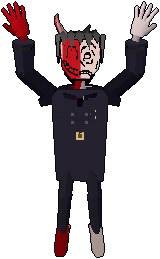
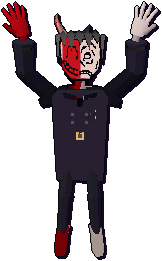
Seven story loading screens and cleaner fighter art on the loading screens
- STORY screens: a whole story told in one pixel picture, framed with its title and tale
  beneath - THEIR NAMES, WHAT THE WATER KEEPS, THE LAST OATH, SOUNDCHECK 6 AM,
  THE STAR-EATER, CLOSING TIME, SECOND LIFE (tools/sprites/loading_stories.py).
- Fighter screens: clean poses instead of smeared attack frames, the outline and comic
  shadow baked on the sprite's own pixels, and every hero sized in whole steps of the
  backdrop's pixels so nothing comes out lumpy.
- Download budget: images 102.3 -> 102.7 MB, total 180.0 -> 180.4 for the story pictures.

Claude-Session: https://claude.ai/code/session_01K2bHiqG1reMF1nXkDzraJv

diff --git a/public/loading-screens.js b/public/loading-screens.js
@@ -4,14 +4,22 @@
 (() => {
   // a: the main accent, b: the hero's offset shadow; hx / hh / hb = the hero's centre x, height and floor (% of the screen); fx = its particles
   const screens = [
-    { id: 'roster', name: 'OPERATION REBIRTH', place: 'EVERY FIGHT IS A SECOND CHANCE', lore: 'Lacy, Soul Summoner and Mr Wake. Three who came back wrong - and came back fighting.', a: '#ffb24a', b: '#7a2aa8', fx: 'embers', hx: 64, hh: 62, hb: 9 },
-    { id: 'soul-summoner', name: 'SOUL SUMMONER', place: 'THE SKY SANCTUM', lore: 'He calls his fallen friends by name, and they answer in blue fire.', a: '#ffd86a', b: '#1a6a9a', fx: 'souls', hx: 68, hh: 62, hb: 7 },
-    { id: 'mr-wake', name: 'MR WAKE', place: 'GRAVEMOON BRIDGE', lore: 'Beneath the bridge the dark water has eyes. He taught them to blink.', a: '#c89aff', b: '#3a1060', fx: 'wisps', hx: 64, hh: 58, hb: 9 },
-    { id: 'hero-knight', name: 'LACY', place: 'THE LAST OATH', lore: 'The kingdom fell. The oath did not.', a: '#ff9a4a', b: '#5a0a1a', fx: 'embers', hx: 66, hh: 78, hb: 6 },
-    { id: 'nu', name: 'NU', place: 'THE MAIN STAGE', lore: 'Every fight becomes a show. Every show ends in an encore.', a: '#ff5ae0', b: '#1ad8ff', fx: 'confetti', hx: 66, hh: 78, hb: 6 },
-    { id: 'aero', name: 'AERO', place: 'AERO MEADOW', lore: 'A living world inside a forgotten desktop - and one goldfish who refuses to be closed.', a: '#5ae0ff', b: '#1a6ad0', fx: 'bubbles', hx: 66, hh: 74, hb: 7 },
-    { id: 'gnash', name: 'GNASH', place: 'AFTER HOURS', lore: 'He drags the axe so you hear him coming. It never helps.', a: '#c8ff3a', b: '#ff2a9a', fx: 'rain', hx: 66, hh: 84, hb: 5 },
-    { id: 'hanz', name: 'HANZ & $@L', place: 'THE TRUE SHOPKEEPER', lore: 'Two halves of one man behind one counter. The shop is open. Nobody remembers coming in.', a: '#ff4a6a', b: '#d2d0cc', fx: 'glitch', hx: 66, hh: 80, hb: 4 },
+    { id: 'roster', name: 'OPERATION REBIRTH', place: 'EVERY FIGHT IS A SECOND CHANCE', lore: 'Lacy, Soul Summoner and Mr Wake. Three who came back wrong - and came back fighting.', a: '#ffb24a', b: '#7a2aa8', fx: 'embers', hx: 64, px: 1.5, hb: 9 },
+    { id: 'soul-summoner', name: 'SOUL SUMMONER', place: 'THE SKY SANCTUM', lore: 'He calls his fallen friends by name, and they answer in blue fire.', a: '#ffd86a', b: '#1a6a9a', fx: 'souls', hx: 68, px: 1.5, hb: 7 },
+    { id: 'mr-wake', name: 'MR WAKE', place: 'GRAVEMOON BRIDGE', lore: 'Beneath the bridge the dark water has eyes. He taught them to blink.', a: '#c89aff', b: '#3a1060', fx: 'wisps', hx: 64, px: 1.5, hb: 9 },
+    { id: 'hero-knight', name: 'LACY', place: 'THE LAST OATH', lore: 'The kingdom fell. The oath did not.', a: '#ff9a4a', b: '#5a0a1a', fx: 'embers', hx: 66, px: 1.5, hb: 6 },
+    { id: 'nu', name: 'NU', place: 'THE MAIN STAGE', lore: 'Every fight becomes a show. Every show ends in an encore.', a: '#ff5ae0', b: '#1ad8ff', fx: 'confetti', hx: 66, px: 2, hb: 6 },
+    { id: 'aero', name: 'AERO', place: 'AERO MEADOW', lore: 'A living world inside a forgotten desktop - and one goldfish who refuses to be closed.', a: '#5ae0ff', b: '#1a6ad0', fx: 'bubbles', hx: 66, px: 2, hb: 7 },
+    { id: 'gnash', name: 'GNASH', place: 'AFTER HOURS', lore: 'He drags the axe so you hear him coming. It never helps.', a: '#c8ff3a', b: '#ff2a9a', fx: 'rain', hx: 66, px: 1, hb: 5 },
+    { id: 'hanz', name: 'HANZ & $@L', place: 'THE TRUE SHOPKEEPER', lore: 'Two halves of one man behind one counter. The shop is open. Nobody remembers coming in.', a: '#ff4a6a', b: '#d2d0cc', fx: 'glitch', hx: 66, px: 0.5, hb: 4 },
+    // STORIES: a whole story in one picture (tools/sprites/loading_stories.py) - no hero layer, the title and the tale underneath
+    { id: 'story-names', story: true, name: 'THEIR NAMES', place: 'A SOUL SUMMONER STORY', lore: 'Every night he walks the Sanctum graves and says their names out loud. Every night, one of them answers.', a: '#8ae8ff', b: '#1a3a6a', fx: 'souls' },
+    { id: 'story-bridge', story: true, name: 'WHAT THE WATER KEEPS', place: 'A GRAVEMOON STORY', lore: 'Mr Wake has fished off Gravemoon Bridge for a hundred years and never caught a thing. Tonight, something down there is fishing back. AERO saw it first.', a: '#ffd23a', b: '#3a1060', fx: 'wisps' },
+    { id: 'story-oath', story: true, name: 'THE LAST OATH', place: 'A LACY STORY', lore: 'Her kingdom burned in a single night. Its last knight swore to win it back one fight at a time. She has a very long list.', a: '#ff9a4a', b: '#5a0a1a', fx: 'embers' },
+    { id: 'story-soundcheck', story: true, name: 'SOUNDCHECK, 6 AM', place: 'AN UNDERGROUND STORY', lore: 'The frontman is warmed up and ready to go. The roadies are... not. One is asleep on the amp. One has lost a fight with the cables.', a: '#ff5ae0', b: '#1ad8ff', fx: 'confetti' },
+    { id: 'story-eater', story: true, name: 'THE STAR-EATER', place: 'THE LAST OBSERVATORY', lore: 'The night sky is going dark, one star at a time. At the edge of the world something enormous is hungry, and three small fighters have decided to stop it.', a: '#ffc84a', b: '#3a1a6a', fx: 'embers' },
+    { id: 'story-closing', story: true, name: 'CLOSING TIME', place: 'A LOST STORY', lore: 'The little shop is open all night. Nobody remembers going in. Everybody remembers the shopkeeper - and he never forgets a customer.', a: '#ff4a8a', b: '#b8121c', fx: 'glitch' },
+    { id: 'story-dawn', story: true, name: 'SECOND LIFE', place: 'OPERATION REBIRTH', lore: 'Six who should have stayed down. One more sunrise. One more round.', a: '#ffd08a', b: '#6a1a5a', fx: 'embers' },
   ];
   const tips = [
     'Your LIMIT gauge fills as you take damage. When it\'s full, press O to unleash your Limit.',
@@ -39,9 +47,16 @@
   const $ = (q) => root.querySelector(q);
   root.dataset.screen = S.id; root.setAttribute('aria-label', 'Loading Operation REBIRTH - ' + S.name);
   root.style.setProperty('--a', S.a); root.style.setProperty('--b', S.b);
-  root.style.setProperty('--hx', S.hx + '%'); root.style.setProperty('--hh', S.hh + '%'); root.style.setProperty('--hb', S.hb + '%');
+  root.style.setProperty('--hx', (S.hx || 64) + '%'); root.style.setProperty('--hb', (S.hb || 5) + '%');
   $('.ls-bg').src = 'assets/ui/loading/' + S.id + '_bg.png';
-  const hero = $('.ls-hero'); hero.src = 'assets/ui/loading/' + S.id + '_hero.png'; hero.alt = S.name;
+  const hero = $('.ls-hero');
+  if (S.story) { root.classList.add('ls-story'); $('.ls-kicker').textContent = 'STORY'; $('.ls-bg').alt = S.name + '. ' + S.lore; }
+  else {
+    // the hero is sized in whole steps of the backdrop's own pixels (px = sprite pixels per backdrop pixel), so both
+    // scale up together and the sprite never comes out lumpy or uneven
+    hero.onload = () => root.style.setProperty('--hh', (hero.naturalHeight * (S.px || 1) / 180 * 100) + '%');
+    hero.src = 'assets/ui/loading/' + S.id + '_hero.png'; hero.alt = S.name;
+  }
   $('.ls-name').textContent = S.name; $('.ls-place').textContent = S.place; $('.ls-lore').textContent = S.lore;
 
   // the tips turn every few seconds

diff --git a/index.html b/index.html
@@ -36,7 +36,20 @@
     .ls-bg { inset: 0; width: 100%; height: 100%; object-fit: cover; transform-origin: 62% 55%; animation: ls-push 16s cubic-bezier(.2,.6,.3,1) forwards; }
     .ls-rays { position: absolute; left: var(--hx, 64%); top: 52%; width: 160%; aspect-ratio: 1; transform: translate(-50%, -50%); background: repeating-conic-gradient(from 0deg, var(--a) 0deg 7deg, transparent 7deg 22deg); opacity: .22; mix-blend-mode: screen; -webkit-mask: radial-gradient(circle, #000 0%, transparent 46%); mask: radial-gradient(circle, #000 0%, transparent 46%); animation: ls-spin 60s linear infinite; }
     .ls-hero-wrap { position: absolute; left: var(--hx, 64%); bottom: var(--hb, 5%); height: var(--hh, 76%); transform: translateX(-50%); animation: ls-in .9s cubic-bezier(.2,1.4,.4,1) both .15s; }
-    .ls-hero { position: relative !important; height: 100%; width: auto; animation: ls-float 3.6s ease-in-out infinite alternate 1s; filter: drop-shadow(.55vmin .55vmin 0 var(--b)) drop-shadow(0 0 2.4vmin var(--a)); }
+    .ls-hero { position: relative !important; height: 100%; width: auto; animation: ls-float 3.6s ease-in-out infinite alternate 1s; filter: drop-shadow(0 0 2.4vmin var(--a)); }
+    /* a STORY screen: the picture is the whole thing - no hero, no rays; the camera drifts slowly across it */
+    #loading.ls-story .ls-hero-wrap, #loading.ls-story .ls-rays { display: none; }
+    #loading.ls-story .ls-stage { top: 3vh; transform: translateX(-50%); width: min(96vw, 112vh); height: auto; aspect-ratio: 16 / 9; overflow: hidden; outline: 2px solid var(--a); outline-offset: 3px; box-shadow: 0 0 0 7px rgba(0,0,0,.6), 0 0 6vh -1vh var(--a); }
+    #loading.ls-story .ls-bg { animation: ls-drift 24s ease-in-out infinite alternate; transform-origin: 50% 50%; }
+    #loading.ls-story .ls-shade { background: radial-gradient(ellipse at 50% 50%, transparent 60%, rgba(0,0,0,.35) 100%); }
+    #loading.ls-story .ls-tip { display: none; }
+    #loading.ls-story .ls-title { bottom: 10vh; max-width: 74vw; display: grid; grid-template-columns: auto 1fr; column-gap: 2.2em; align-items: end; animation-name: ls-title; }
+    #loading.ls-story .ls-kicker { grid-column: 1; justify-self: start; }
+    #loading.ls-story .ls-name { grid-column: 1; margin: .25em 0 .15em; font-size: clamp(12px, min(2.6vw, 4.4vh), 40px); white-space: nowrap; }
+    #loading.ls-story .ls-place { grid-column: 1; }
+    #loading.ls-story .ls-lore { grid-column: 2; grid-row: 1 / span 3; margin: 0; font-size: clamp(6px, min(1vw, 1.9vh), 14px); max-width: 46em; color: #f0ecf8; border-left: 3px solid var(--a); padding-left: 1.2em; }
+    @media (max-aspect-ratio: 16/10) { #loading.ls-story .ls-title { display: block; } #loading.ls-story .ls-lore { display: block; border: 0; padding: 0; margin-top: .8em; } }
+    @keyframes ls-drift { from { transform: scale(1.0) translate(0, 0); } to { transform: scale(1.05) translate(-1%, -.6%); } }
     .ls-fx { position: absolute; inset: 0; width: 100%; height: 100%; image-rendering: pixelated; }
     .ls-shade { position: absolute; inset: 0; background: linear-gradient(90deg, rgba(6,4,14,.82) 0%, rgba(6,4,14,.35) 34%, transparent 55%), linear-gradient(0deg, rgba(6,4,14,.85) 0%, transparent 26%), radial-gradient(ellipse at 60% 45%, transparent 55%, rgba(0,0,0,.45) 100%); }
     .ls-hud { position: absolute; inset: 0; }

diff --git a/tools/sprites/loading_stories.py b/tools/sprites/loading_stories.py
@@ -1,0 +1,218 @@
+"""LOADING STORIES: loading screens that are whole stories in one picture (a picture is worth a thousand words).
+Each is a 320x180 pixel-art scene painted with hall_paintings.py's kit (dithered skies, glows, ridges, rays, rim-lit
+sprites from the fighters' real sheets) - every sprite at a whole-number scale on the same pixel grid as the scene, so
+nothing shimmers or looks broken when the page blows it up. The page (public/loading-screens.js, `story` screens)
+shows the picture full screen with a slow camera drift and its title and story underneath.
+
+Writes public/assets/ui/loading/story-<id>_bg.png. Run after loading_screens.py (it clears the folder):
+  python3 tools/sprites/loading_stories.py [--preview FILE]
+"""
+import os, sys, math
+import numpy as np
+from PIL import Image
+sys.path.insert(0, os.path.dirname(__file__))
+import hall_paintings as P
+
+P.W, P.H = 320, 180                                   # (the kit reads these when it paints)
+W, H = P.W, P.H
+OUT = os.path.join(P.ROOT, 'public/assets/ui/loading')
+hx = P.hexc
+
+
+def grave(d, x, y, kind):
+    """A gravestone with its feet at (x, y): a rounded slab, a cross, or a broken pillar."""
+    c, e = hx(0x2a3448), hx(0x46566e)
+    if kind == 0: d.rectangle((x - 7, y - 16, x + 7, y), fill=c); d.ellipse((x - 7, y - 22, x + 7, y - 10), fill=c); d.line((x - 6, y - 17, x - 6, y), fill=e)
+    elif kind == 1: d.rectangle((x - 2, y - 22, x + 2, y), fill=c); d.rectangle((x - 8, y - 17, x + 8, y - 13), fill=c); d.line((x - 2, y - 22, x - 2, y), fill=e)
+    else: d.rectangle((x - 5, y - 14, x + 5, y), fill=c); d.polygon([(x - 5, y - 14), (x - 1, y - 19), (x + 2, y - 15), (x + 5, y - 18), (x + 5, y - 14)], fill=c)
+    d.rectangle((x - 10, y, x + 10, y + 2), fill=hx(0x1a2030))
+
+
+def wisp(cv, x, y, h, col=0x6ad8ff):
+    """A soul flame rising out of the ground: a glow, a flickering blue tongue, a white heart."""
+    P.glow(cv, x, y - h * 0.6, h * 0.8, col, 70); d = P.draw(cv)
+    for i in range(int(h)):
+        w = max(1, int((1 - i / h) * 4 * (1 + 0.4 * math.sin(i * 0.9))))
+        d.line((x - w + int(math.sin(i * 0.5) * 2), y - i, x + w + int(math.sin(i * 0.5) * 2), y - i), fill=hx(col) + (230,))
+    d.ellipse((x - 1, y - h * 0.45, x + 1, y - h * 0.3), fill=(255, 255, 255, 255))
+
+
+def s_names():
+    """THEIR NAMES: Soul Summoner among the graves of his friends at night; blue soul fire rising from each grave, and
+    over one of them the ghost of a knight has stood up to answer him."""
+    img = P.sky(0x050818, 0x0e1a3a, 0x1e3a5a, 0x3a5a7a)
+    img = P.stars(img, 120, 4, (0xffffff, 0xa8d8ff), 0.55)
+    img = P.radial(250, 40, 26, [0xf4f8ff, 0xc8d8f0], img); img = P.radial(250, 40, 60, [0x6a8ab0, 0x2a4060], img, 1, 0.5)
+    img = P.ridge(img, 120, 10, 0x0e1830, 8, step=3)
+    img = P.ridge(img, 146, 6, 0x0a1222, 9, step=2)
+    cv = P.to_im(img); d = P.draw(cv)
+    for x, k in ((60, 0), (100, 1), (140, 2), (238, 1), (276, 0)): grave(d, x, 150, k)
+    for x in (60, 100, 140, 238, 276): wisp(cv, x, 132, 14 + (x % 7))
+    P.put(cv, P.silhouette(P.strip('hero-knight/idle_sheet.png', 2, 150, 90), (120, 200, 255)), 100, 132, alpha=0.45)   # the one who answers
+    P.glow(cv, 100, 108, 30, 0x8ae8ff, 60)
+    P.put(cv, P.strip('soul-summoner/idle_sheet.png', 4), 190, 158, flip=True, scale=2, light=hx(0x8ae8ff), side=-1)
+    d = P.draw(cv); d.rectangle((0, 158, W, H), fill=hx(0x070c18))
+    for i in range(30): x, y = P.rng.integers(0, W), P.rng.integers(60, 150); P.sparkle(cv, int(x), int(y), 0x8ae8ff, 1)
+    return P.grade(cv, 0x3a6ab0, 0.08)
+
+
+def s_bridge():
+    """WHAT THE WATER KEEPS: Mr Wake fishing off Gravemoon Bridge with his staff; under the black water two huge eyes
+    have opened and a long hand is reaching for his line. AERO, at the far end, has seen it."""
+    img = P.sky(0x07040f, 0x1e0f3d, 0x4a1f6a, 0x6a2a7a)
+    img = P.stars(img, 90, 2, (0xffffff, 0xd8c8ff), 0.45)
+    img = P.radial(80, 40, 22, [0xf4ecff, 0xd8c8f4], img)
+    cv = P.to_im(img); d = P.draw(cv)
+    d.rectangle((0, 136, W, H), fill=hx(0x0a0612))                                          # the black water
+    for i in range(10): y = 140 + i * 4; d.line((60 + i * 2, y, 100 - i * 2, y), fill=hx(0x6a5a8a))   # the moon in it
+    for ex in (150, 206):                                                                   # the eyes under the water
+        P.glow(cv, ex, 160, 24, 0xffd23a, 60); d = P.draw(cv)
+        d.ellipse((ex - 16, 154, ex + 16, 166), fill=hx(0xffe07a)); d.ellipse((ex - 4, 154, ex + 4, 166), fill=hx(0x0a0612))
+    d.line((236, 180, 240, 156, 250, 142), fill=hx(0x2a1a3a), width=4)                      # a long hand reaching up for his line
+    for k in range(4): d.line((250, 142, 244 + k * 4, 134), fill=hx(0x2a1a3a), width=2)
+    d.rectangle((0, 120, W, 126), fill=hx(0x160c28)); d.rectangle((0, 118, W, 119), fill=hx(0x2c1a48))   # the bridge
+    for x in range(0, W, 12): d.rectangle((x, 108, x + 2, 118), fill=hx(0x1c1030))
+    d.rectangle((0, 107, W, 109), fill=hx(0x1c1030))
+    for x in (30, 140, 270): d.rectangle((x, 126, x + 12, 136), fill=hx(0x120a22))
+    P.put(cv, P.strip('mr-wake/idle_sheet.png', 6), 190, 120, scale=2, light=hx(0xd8b8ff), side=-1)
+    d = P.draw(cv); d.line((222, 32, 246, 18), fill=hx(0x6a4a3a), width=2); d.line((246, 18, 252, 146), fill=hx(0xd8d0ff))   # his line into the water
+    P.put(cv, P.strip('aero/idle_sheet.png', 12), 40, 118, light=hx(0xd8b8ff), side=-1)
+    d = P.draw(cv); d.text((38, 78), '!', fill=hx(0xffffff))
+    P.glow(cv, 54, 106, 8, 0xffd27a, 120)                                                    # his lantern
+    return P.grade(cv, 0x5a2a8a, 0.07)
+
+
+def s_oath():
+    """THE LAST OATH: the kingdom burns on the horizon; on the hill above it Lacy raises her sword beside the torn
+    banner of her fallen order, an empty helmet at her feet."""
+    img = P.sky(0x12030a, 0x4a0c1e, 0xa8242a, 0xff6a3a, 0xffc070)
+    img = P.radial(70, 120, 46, [0xfff0c0, 0xffb060, 0xff6a3a], img, 0.8)
+    img = P.ridge(img, 128, 8, 0x2a0810, 5, step=2)
+    cv = P.to_im(img); d = P.draw(cv)
+    for x, w, h in ((40, 14, 40), (58, 26, 26), (88, 12, 52), (104, 20, 30), (128, 16, 44)):   # the burning castle
+        d.rectangle((x, 128 - h, x + w, 132), fill=hx(0x1a060c))
+        for bx in range(x, x + w, 4): d.rectangle((bx, 125 - h, bx + 2, 128 - h), fill=hx(0x1a060c))
+        P.glow(cv, x + w / 2, 128 - h, 14, 0xff8a3a, 90); d = P.draw(cv)
+    for i in range(6): P.glow(cv, 60 + i * 18, 90 - (i % 3) * 14, 18, 0x3a1a1a, 70)                  # smoke
+    d = P.draw(cv)
+    d.polygon([(150, 180), (210, 140), (290, 146), (320, 160), (320, 180)], fill=hx(0x10040a))     # the hill
+    d.line((262, 146, 262, 86), fill=hx(0x2a1a14), width=2)                                       # the torn banner
+    d.polygon([(263, 88), (290, 92), (282, 100), (294, 106), (263, 112)], fill=hx(0x7a1020))
+    d.rectangle((268, 96, 276, 102), fill=hx(0xd8a040))
+    d.ellipse((232, 140, 244, 148), fill=hx(0x6a6a72)); d.rectangle((235, 143, 241, 144), fill=hx(0x10040a))   # the empty helmet
+    P.put(cv, P.move('hk', 'taunt', 0.45), 216, 152, scale=2, light=hx(0xffb070), side=-1)
+    for i in range(50): x, y = int(P.rng.integers(0, W)), int(P.rng.integers(0, 150)); d = P.draw(cv); d.point((x, y), fill=hx(0xff9a4a if i % 3 else 0xffe0a0))   # ash and embers
+    return P.grade(cv, 0xff6a3a, 0.06)
+
+
+def s_soundcheck():
+    """SOUNDCHECK, 6 AM: NU is on stage and ready to go; GNASH is asleep on the amp hugging his axe, and AERO is
+    hopelessly tangled in the cables."""
+    img = P.sky(0x0a0418, 0x1e0a36, 0x3a1450)
+    cv = P.to_im(img)
+    P.rays(cv, 160, -20, 1, 0xffe8a8, 70, start=math.pi / 2, length=200)
+    d = P.draw(cv)
+    d.rectangle((0, 140, W, 146), fill=hx(0x3a2a3a)); d.rectangle((0, 146, W, H), fill=hx(0x140c18))   # the stage
+    for x in (20, 250):                                                                     # amps
+        d.rectangle((x, 84, x + 52, 140), fill=hx(0x141018)); d.rectangle((x + 4, 88, x + 48, 110), fill=hx(0x2a2a30)); d.rectangle((x + 4, 114, x + 48, 136), fill=hx(0x2a2a30))
+        for cx, cy in ((x + 26, 99), (x + 26, 125)): d.ellipse((cx - 9, cy - 9, cx + 9, cy + 9), fill=hx(0x0a0a0c))
+    P.put(cv, P.strip('gnash/idle_sheet.png', 0, 160, 96), 280, 85, flip=True, shade=((40, 20, 70), 0.25))   # GNASH asleep on the amp
+    d = P.draw(cv); d.text((288, 44), 'Z', fill=hx(0xc8c8ff)); d.text((296, 34), 'z', fill=hx(0xc8c8ff)); d.text((302, 26), 'z', fill=hx(0xc8c8ff))
+    P.put(cv, P.move('nu', 'limit', 0.15), 160, 142, scale=2, light=hx(0xffe8a8), side=-1)
+    P.put(cv, P.strip('aero/idle_sheet.png', 20), 70, 142, flip=True)
+    d = P.draw(cv)                                                                          # the cables he's wound up in
+    for k in range(6): d.arc((52 + k * 2, 100 + k * 6, 88 - k, 128 + k * 3), 180 + k * 20, 520 + k * 15, fill=hx(0x101010), width=2)
+    d.line((88, 130, 130, 146), fill=hx(0x101010), width=2); d.line((52, 120, 40, 138), fill=hx(0x101010), width=2)
+    d.text((54, 72), '?!', fill=hx(0xffffff))
+    return P.grade(cv, 0x8a3ad8, 0.06)
+
+
+def s_eater():
+    """THE STAR-EATER: the night is going dark one star at a time - at the edge of the world a giant eclipse face is
+    swallowing them, and three tiny heroes on a cliff look up at it."""
+    img = P.sky(0x020108, 0x0a0420, 0x1a0838)
+    img = P.stars(img, 220, 11, (0xffffff, 0xffe8a8, 0xc8b8ff), 0.9)
+    cv = P.to_im(img)
+    cx, cy = 196, 62
+    P.glow(cv, cx, cy, 70, 0xffb84a, 90); P.glow(cv, cx, cy, 46, 0xffe8a8, 110)
+    d = P.draw(cv)
+    for i in range(24):                                                                     # stars being pulled into it
+        a = i * 0.26 + 0.3; r1, r2 = 60 + (i % 5) * 18, 40
+        d.line((cx + math.cos(a) * r1, cy + math.sin(a) * r1 * 0.8, cx + math.cos(a) * r2, cy + math.sin(a) * r2 * 0.8), fill=hx(0xfff4d0) + (160,))
+        d.point((cx + math.cos(a) * r1, cy + math.sin(a) * r1 * 0.8), fill=hx(0xffffff))
+    for k in range(16):                                                                     # the corona
+        a = k / 16 * math.pi * 2; d.polygon([(cx + math.cos(a - 0.12) * 34, cy + math.sin(a - 0.12) * 34), (cx + math.cos(a) * (50 + (k % 3) * 8), cy + math.sin(a) * (50 + (k % 3) * 8)), (cx + math.cos(a + 0.12) * 34, cy + math.sin(a + 0.12) * 34)], fill=hx(0xffc84a))
+    d.ellipse((cx - 36, cy - 36, cx + 36, cy + 36), fill=hx(0x05030a))                       # the black face
+    d.polygon([(cx - 22, cy - 8), (cx - 6, cy - 4), (cx - 22, cy - 2)], fill=hx(0xff3a3a)); d.polygon([(cx + 22, cy - 8), (cx + 6, cy - 4), (cx + 22, cy - 2)], fill=hx(0xff3a3a))   # slit eyes
+    d.ellipse((cx - 14, cy + 8, cx + 14, cy + 22), fill=hx(0x1a0a2a))                         # the maw, a little vortex in it
+    for k in range(6): d.point((cx - 10 + k * 4, cy + 10 + (k % 2) * 2), fill=hx(0xfff4d0))
+    d.polygon([(0, 180), (0, 150), (40, 140), (90, 146), (120, 160), (130, 180)], fill=hx(0x07040e))   # the cliff
+    for i, (path, f, fw, fh, x) in enumerate((('soul-summoner/idle_sheet.png', 1, 64, 64, 24), ('hero-knight/idle_sheet.png', 3, 150, 90, 62), ('nu/idle_sheet.png', 5, 64, 64, 100))):
+        P.put(cv, P.silhouette(P.strip(path, f, fw, fh), (34, 20, 54)), x, 147 - (i == 1) * 4, light=hx(0xffc84a), side=1)
+    return P.grade(cv, 0x3a1a6a, 0.06)
+
+
+def s_closing():
+    """CLOSING TIME: a little shop on a dark street, its window warm. NU and AERO hurry away with bags of things they
+    don't remember buying - and in the window two eyes, one red and one grey, watch them go."""
+    img = P.sky(0x040612, 0x0e1028, 0x1a1a3a)
+    img = P.stars(img, 40, 5, (0xffffff,), 0.3)
+    cv = P.to_im(img); d = P.draw(cv)
+    d.rectangle((0, 150, W, H), fill=hx(0x101018)); d.rectangle((0, 148, W, 150), fill=hx(0x2a2a3a))   # the street
+    d.rectangle((20, 40, 200, 150), fill=hx(0x1a1420)); d.polygon([(14, 40), (110, 14), (206, 40)], fill=hx(0x140e1a))   # the shop
+    for i in range(8): d.rectangle((30 + i * 20, 52, 38 + i * 20, 58), fill=hx(0xb8121c if i % 2 else 0xd2d0cc))   # an awning
+    d.rectangle((36, 70, 150, 136), fill=hx(0xffc870))                                       # the warm window
+    P.glow(cv, 93, 103, 70, 0xffb050, 70); d = P.draw(cv)
+    d.ellipse((76, 80, 112, 118), fill=hx(0x1a0c10)); d.rectangle((70, 112, 118, 136), fill=hx(0x1a0c10))   # him, behind the counter
+    d.polygon([(82, 84), (78, 64), (88, 80)], fill=hx(0xb8121c))                              # his one horn
+    d.ellipse((84, 94, 90, 99), fill=hx(0xff2a3a)); d.ellipse((98, 94, 104, 99), fill=hx(0xd2d0cc))   # his two eyes
+    d.rectangle((36, 120, 150, 136), fill=hx(0x6a3a20))                                       # the counter
+    d.rectangle((160, 80, 192, 148), fill=hx(0x2a1a14)); d.rectangle((164, 84, 188, 144), fill=hx(0x3a241a))   # the door
+    d.rectangle((166, 66, 188, 76), fill=hx(0x0a0a10)); d.text((168, 67), 'OPEN', fill=hx(0xff4a8a))
+    P.glow(cv, 177, 71, 14, 0xff4a8a, 60)
+    for x in (230, 300):                                                                     # a lamp post
+        d = P.draw(cv); d.rectangle((x, 60, x + 2, 150), fill=hx(0x1a1a22)); P.glow(cv, x + 1, 60, 20, 0xffe8b0, 80)
+    P.put(cv, P.strip('nu/run_sheet.png', 3), 250, 150, light=hx(0xffc870), side=-1)
+    P.put(cv, P.strip('aero/run_sheet.png', 5), 282, 150, light=hx(0xffc870), side=-1)
+    d = P.draw(cv)
+    for bx, by in ((258, 126), (290, 124)): d.rectangle((bx, by, bx + 8, by + 9), fill=hx(0xe8d0a0)); d.line((bx + 2, by, bx + 4, by - 3, bx + 6, by), fill=hx(0x6a4a2a))   # shopping bags
+    return P.grade(cv, 0x2a1a4a, 0.06)
+
+
+def s_dawn():
+    """SECOND LIFE: dawn over the floating islands, and the six of them walk out over the hill together toward it."""
+    img = P.sky(0x1a0a3a, 0x6a1a5a, 0xff6a5a, 0xffc070, 0xfff0c0)
+    img = P.radial(160, 140, 60, [0xffffff, 0xfff0b0, 0xffc070], img, 0.8)
+    cv = P.to_im(img)
+    P.rays(cv, 160, 140, 18, 0xfff0c0, 40, length=320)
+    img = np.array(cv.convert('RGB')).astype(float)
+    img = P.ridge(img, 150, 6, 0x2a0e30, 3, step=3)
+    cv = P.to_im(img); d = P.draw(cv)
+    for x, y, w in ((30, 60, 40), (250, 50, 50)):                                            # floating islands far off
+        d.polygon([(x, y), (x + w, y), (x + w * 0.6, y + 16), (x + w * 0.4, y + 22)], fill=hx(0x6a2a5a)); d.rectangle((x, y - 2, x + w, y), fill=hx(0xa85a6a))
+    d.polygon([(0, 180), (0, 160), (160, 150), (320, 160), (320, 180)], fill=hx(0x14061a))
+    crew = [('hero-knight/run_sheet.png', 1, 150, 90), ('soul-summoner/run_sheet.png', 2, 64, 64), ('mr-wake/run_sheet.png', 4, 64, 64),
+            ('nu/run_sheet.png', 6, 64, 64), ('aero/run_sheet.png', 1, 64, 64), ('gnash/run_sheet.png', 3, 160, 96)]
+    for i, (path, f, fw, fh) in enumerate(crew):
+        P.put(cv, P.silhouette(P.strip(path, f, fw, fh), (16, 6, 22)), 60 + i * 40, 158 - (i % 2), light=hx(0xffe0a0), side=1)
+    return P.grade(cv, 0xff8a5a, 0.06)
+
+
+STORIES = {'names': s_names, 'bridge': s_bridge, 'oath': s_oath, 'soundcheck': s_soundcheck, 'eater': s_eater, 'closing': s_closing, 'dawn': s_dawn}
+
+
+def main():
+    os.makedirs(OUT, exist_ok=True); shots = []
+    for sid, fn in STORIES.items():
+        P.rng = np.random.default_rng(len(sid) * 31)
+        im = fn().convert('RGB')
+        im.quantize(255, dither=Image.NONE).save(os.path.join(OUT, 'story-' + sid + '_bg.png'), optimize=True)
+        shots.append(im); print('story', sid)
+    if '--preview' in sys.argv:
+        sheet = Image.new('RGB', (W * 2 * 2, H * 2 * 4))
+        for i, im in enumerate(shots): sheet.paste(im.resize((W * 2, H * 2), Image.NEAREST), ((i % 2) * W * 2, (i // 2) * H * 2))
+        sheet.save(sys.argv[sys.argv.index('--preview') + 1])
+
+
+if __name__ == '__main__':
+    main()

diff --git a/tools/sprites/loading_screens.py b/tools/sprites/loading_screens.py
@@ -19,9 +19,9 @@ BAYER = np.array([[0, 8, 2, 10], [12, 4, 14, 6], [3, 11, 1, 9], [15, 7, 13, 5]])
 
 # which frame of which moves sheet each hero is cut from: (fighter folder, frame w, h, moves table, frame index)
 POSES = {
-    'soul-summoner': ('soul-summoner', 112, 104, 111),     # FSMASH: the lunge, soul fire in his hand
-    'mr-wake': ('mr-wake', 176, 120, 418),                 # NEUTRAL B: the staff blast
-    'hero-knight': ('hero-knight', 180, 140, 74),          # USMASH: the arcing slash
+    'soul-summoner': ('soul-summoner', 112, 104, 777),     # TAUNT: soul fire held up high
+    'mr-wake': ('mr-wake', 176, 120, 585),                 # TAUNT: the staff held up
+    'hero-knight': ('hero-knight', 180, 140, 192),         # TAUNT: the sword raised to the sky
     'nu': ('nu', 112, 104, 167),                           # FSMASH: the flying kick
     'aero': ('aero', 112, 104, 489),                       # FSMASH: the dashing punch
     'gnash': ('gnash', 180, 168, 101),                     # USMASH: the axe overhead
@@ -255,6 +255,15 @@ def outline(im, color=(10, 6, 18, 255)):
     return Image.fromarray(a)
 
 
+def shadowed(im, color=(20, 8, 34, 255), off=(2, 2)):
+    """The comic offset shadow, baked on the sprite's own pixel grid (so it scales with it and never smears)."""
+    a = np.array(im); al = a[..., 3] > 0
+    out = np.zeros((a.shape[0] + off[1], a.shape[1] + off[0], 4), np.uint8)
+    out[off[1]:, off[0]:][al] = color
+    out[:a.shape[0], :a.shape[1]][al] = a[al]
+    return Image.fromarray(out)
+
+
 def trim(im, pad=2):
     """Crops a sprite to its pixels (plus pad)."""
     bb = im.getbbox(); return im.crop((bb[0] - pad, bb[1] - pad, bb[2] + pad, bb[3] + pad))
@@ -294,12 +303,12 @@ SCREENS = {
 def main():
     os.makedirs(OUT, exist_ok=True)
     for f in os.listdir(OUT):
-        if f.endswith('.png'): os.remove(os.path.join(OUT, f))
+        if f.endswith('.png') and not f.startswith('story-'): os.remove(os.path.join(OUT, f))
     previews = []
     for sid, (bgf, herof) in SCREENS.items():
         bg = bgf(); hero = herof() if herof else hero_from(*POSES[sid])
         bg.convert('RGB').quantize(255, dither=Image.NONE).save(os.path.join(OUT, sid + '_bg.png'), optimize=True)
-        hero.save(os.path.join(OUT, sid + '_hero.png'), optimize=True)
+        hero = shadowed(hero); hero.save(os.path.join(OUT, sid + '_hero.png'), optimize=True)
         print(sid, bg.size, hero.size)
         if '--preview' in sys.argv:
             p = bg.resize((BG_W * 3, BG_H * 3), Image.NEAREST); k = int(BG_H * 3 * 0.78 / hero.height) or 1

diff --git a/tools/sprites/AGENTS.md b/tools/sprites/AGENTS.md
@@ -7,7 +7,8 @@ The root `AGENTS.md` (rules, stack, map) applies too. Keep this file up to date 
 `legs_kit.py`: the shaped legs THE DEVOTED, WHAT ONCE WAS and ROSEMARY share (they replaced two straight `limb` tubes drawn off the rig's joints, which popped apart at the knee). `seg` = a tapered segment drawn exactly between two rig pivots with a thigh / calf `bulge` and round ends, so thigh and shin overlap into one knee at any bend; `along` = points down a segment (stripes, seams, laces); `shoe` = a foot by kind (point / clog / boot / rain / loafer / bare). Each fighter's own look: THE DEVOTED skinny jeans ripped above the knee and knee-high lace-up combat boots (`her_legs()` draws them in greys for `repaint`; laces and the skin through the rips are `MARKS`, put back after the repaint unless sludge covers them; the shin uses the SHOE ramp); WHAT ONCE WAS long gaunt wallpaper legs peeling in strips, mannequin ball-joint knees, scuffed office loafers (its bodies: suit trousers + dress shoes, SWAT knee pads + boots, scrubs + clogs); ROSEMARY slim calves in tights, red rain boots with a turned-down cuff and ridged sole (RED ARMY: khaki trousers, black jackboots). SEEN (her mascot form) keeps its own legs. After a change rerun the fighter's generator (`devoted_draw.py [--set murder|bride|ember]`, `what_once_was_moves.py`, `last_seen_moves.py --calm` / `--soviet`, `broken_bunny.py`) and its `mobile_atlases.py` entries.
 
 ## LOADING SCREENS
-`loading_screens.py`: the Fortnite-style loading screens (index.html styles them, `public/loading-screens.js` picks one per visit - never the same twice - and runs them; `?loading=<id>` forces one): per screen a 320x180 pixel backdrop `<id>_bg.png` painted in code (`bands` = dithered sky bands, `rays`, `glow`, `cloud`, `stars`, silhouettes; HANZ's is his `poly_room.png` shrunk) and a hero `<id>_hero.png` cut from the fighter's moves sheet in an action pose (`POSES`: sheet frame index; HANZ = hanz_fight.py's front `raise`; the roster = three founders), trimmed and outlined -> `public/assets/ui/loading/`. The page makes them move: the backdrop pushes in, light rays turn behind the hero, the hero slides in and floats with an offset shadow and glow in the screen's colours (`a` / `b`), particles per screen (`fx`: embers / souls / wisps / confetti / bubbles / rain / glitch) on a 320x180 canvas, the name, place and lore, turning TIPS, a slanted marching progress bar (BootScene fills `#loading-fill` / `#loading-percent`). The art is small and kept real (unpacked) in the claude.ai copy and precached by the service worker, so it shows before the game's code. A new fighter = a `bg_<name>()`, a `POSES` entry, a `SCREENS` entry, and a line in loading-screens.js.
+`loading_screens.py`: the Fortnite-style loading screens (index.html styles them, `public/loading-screens.js` picks one per visit - never the same twice - and runs them; `?loading=<id>` forces one): per screen a 320x180 pixel backdrop `<id>_bg.png` painted in code (`bands` = dithered sky bands, `rays`, `glow`, `cloud`, `stars`, silhouettes; HANZ's is his `poly_room.png` shrunk) and a hero `<id>_hero.png` cut from the fighter's moves sheet in an action pose (`POSES`: sheet frame index; HANZ = hanz_fight.py's front `raise`; the roster = three founders), trimmed and outlined -> `public/assets/ui/loading/`. The page makes them move: the backdrop pushes in, light rays turn behind the hero, the hero slides in and floats with an offset shadow and glow in the screen's colours (`a` / `b`), particles per screen (`fx`: embers / souls / wisps / confetti / bubbles / rain / glitch) on a 320x180 canvas, the name, place and lore, turning TIPS, a slanted marching progress bar (BootScene fills `#loading-fill` / `#loading-percent`). The art is small and kept real (unpacked) in the claude.ai copy and precached by the service worker, so it shows before the game's code. Heroes come from clean poses (taunts / un-smeared frames - motion smears blown up looked broken), get a 1 px outline and a 2 px comic shadow baked on their own pixel grid (`shadowed`), and the page sizes each in whole/half steps of the backdrop's pixels (`px` in loading-screens.js: height = sprite rows x px / 180 of the screen), so sprite and backdrop pixels line up. A new fighter = a `bg_<name>()`, a `POSES` entry, a `SCREENS` entry, and a line in loading-screens.js (with its `px`).
+`loading_stories.py`: STORY loading screens - a whole story told in one 320x180 picture (`story-<id>_bg.png`), painted with hall_paintings.py's kit at 320x180 (it sets `P.W/P.H`), every sprite at a whole-number scale: THEIR NAMES (Soul Summoner among his friends' graves, one ghost answering), WHAT THE WATER KEEPS (Mr Wake fishing off Gravemoon Bridge while giant eyes under the water reach for his line, AERO watching), THE LAST OATH (Lacy raising her sword above her burning kingdom), SOUNDCHECK, 6 AM (NU ready, GNASH asleep on the amp, AERO tangled in cables), THE STAR-EATER (an eclipse face swallowing the stars over three tiny heroes), CLOSING TIME (NU and AERO leaving the shop with bags while HANZ's two eyes watch from the window), SECOND LIFE (the six walking into the dawn). In loading-screens.js they're `story: true` (title, a STORY kicker, the tale as `lore`): the picture is framed whole in the top of the screen (`.ls-story`, a slow drift, no hero / rays / tip) with the title and story beneath. Run it after loading_screens.py (which keeps `story-*` files).
 
 ## THE DEVOTED
 `devoted_draw.py`: THE DEVOTED's four sludge-stage looks (repaints AERO's parts; sludge coverage `COVER`, smile per stage in `head()`, `wing()` = DROWNED's demon wing in the scarf slot, her own `idle_keys`) and her moves table `src/fighters/dvMoves.js`. Rerun it after changing the drawing. `--set murder` builds the MAD MURDER costume instead (`VARIANT`: `MURDER_SHIRT`, `BLOOD`, `bloody()`, `mask()`, a red blade) into `devoted/murder/`. `--set cartridge|bride|ember|cinder|heartwood|forge|keeper` build the other drawn costumes: `VARIANTS` (palettes, `facet` = flat low-poly shading, sludge ramp, wing colours, blade) applied by `apply_variant()`, plus their own touches in `vpaint()` (clothes patterns), `vhead()` (eyes, veil, halo, fire hair, CINDER WRAITH's hood and cracked mask - `HOOD` / `ASH`), `dress()` (skirt, bouquet, rose, rosary) and `knife()`; the three lore costumes add `lore_dress()` (branches + vine, leather apron + strap + hammer, buttons + rope + lantern) and `lore_wing()` (their own DROWNED wings), palettes `AMBER` / `IRON`+`LEATHER` / `BRASS`; FORGEBOUND's rolled sleeves are skin via `KIND`.
